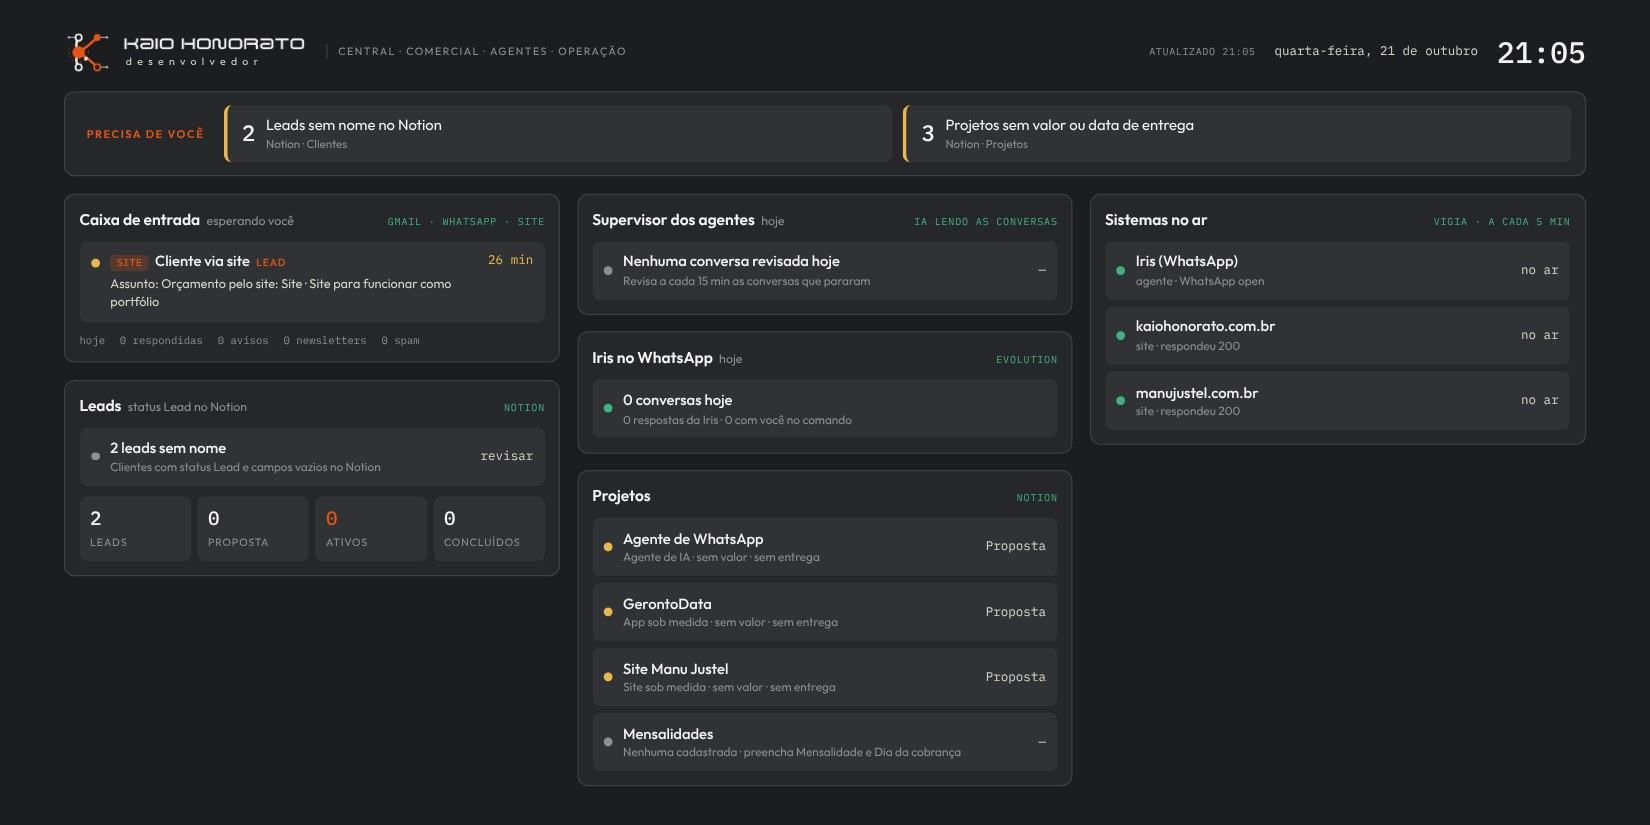
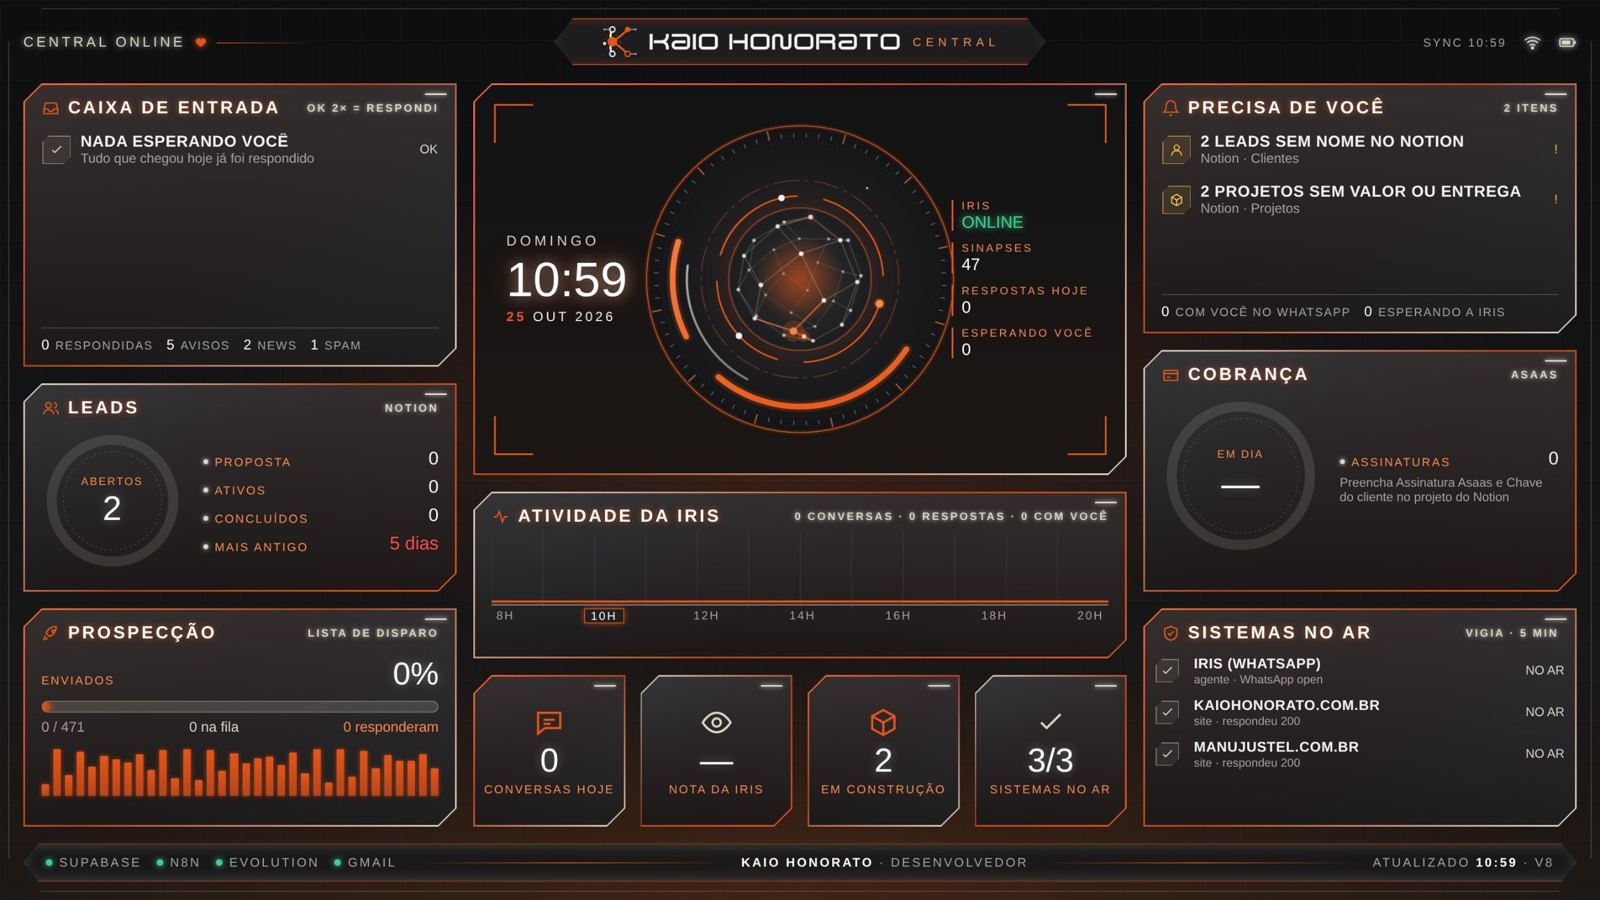
Projetos: print atual do painel da Central
Claude-Session: https://claude.ai/code/session_01YXsLh6FUNuHcQcGWNTHZmV

diff --git a/index.html b/index.html
@@ -1020,8 +1020,8 @@ var LINKS={agente:{live:'',repo:''},gerontodata:{live:'https://gerontodata-web.v
     {id:'central',name:'Central de automação',type:'automação',status:'no ar',url:'kaio.central · TV do escritório',
      dor:'Leads chegando por WhatsApp, e-mail e site, agentes atendendo clientes, sites de clientes no ar. Acompanhar tudo isso olhando app por app tomava tempo e deixava coisa passar.',
      feito:'Transformei uma TV Box simples em uma central de comando: ligou na tomada, abre direto o painel. Por trás, o n8n coloca para trabalhar a Iris (agente de IA que atende no WhatsApp e marca diagnóstico), um supervisor que revisa as conversas dela, um vigia que confere sites e agentes a cada 5 minutos e tenta consertar sozinho, e um disparo para a lista com limite anti-spam. O que precisa de mim aparece na TV, chega no meu WhatsApp e vira um relatório todo dia às 8h.',
-     stack:['n8n','IA','WhatsApp','Supabase','Notion','TV Box Android'],note:'Print real do painel. Nomes de clientes ocultos.',
-     shots:[['Painel','img/central-painel.jpg','Painel da central com caixa de entrada, leads, supervisor dos agentes, Iris no WhatsApp, projetos e sistemas no ar'],['Como funciona','img/central-fluxo.jpg','Diagrama: WhatsApp, formulários do site, Notion e sites entram no n8n com IA e no Supabase, e chegam como painel na TV, aviso no WhatsApp e relatório das 8h']]},
+     stack:['n8n','IA','WhatsApp','Supabase','Notion','TV Box Android'],note:'Print real do painel (25/10/2026). Nomes de clientes ocultos.',
+     shots:[['Painel','img/central-painel.jpg','Painel da central em 25 de outubro de 2026, com caixa de entrada, leads, prospecção, atividade da Iris no WhatsApp, cobrança e sistemas no ar'],['Como funciona','img/central-fluxo.jpg','Diagrama: WhatsApp, formulários do site, Notion e sites entram no n8n com IA e no Supabase, e chegam como painel na TV, aviso no WhatsApp e relatório das 8h']]},
     {id:'gerontodata',name:'GerontoData',type:'app',status:'em desenvolvimento',url:'gerontodata-web.vercel.app',
      dor:'A avaliação gerontológica envolve muitos instrumentos. Em papel e planilha, o dado se espalha e o laudo demora a sair.',
      feito:'App web com cadastro, escalas validadas e laudo em PDF para compartilhar por e-mail ou WhatsApp. Reconstruído em React e Supabase para as turmas da UFSCar.',
